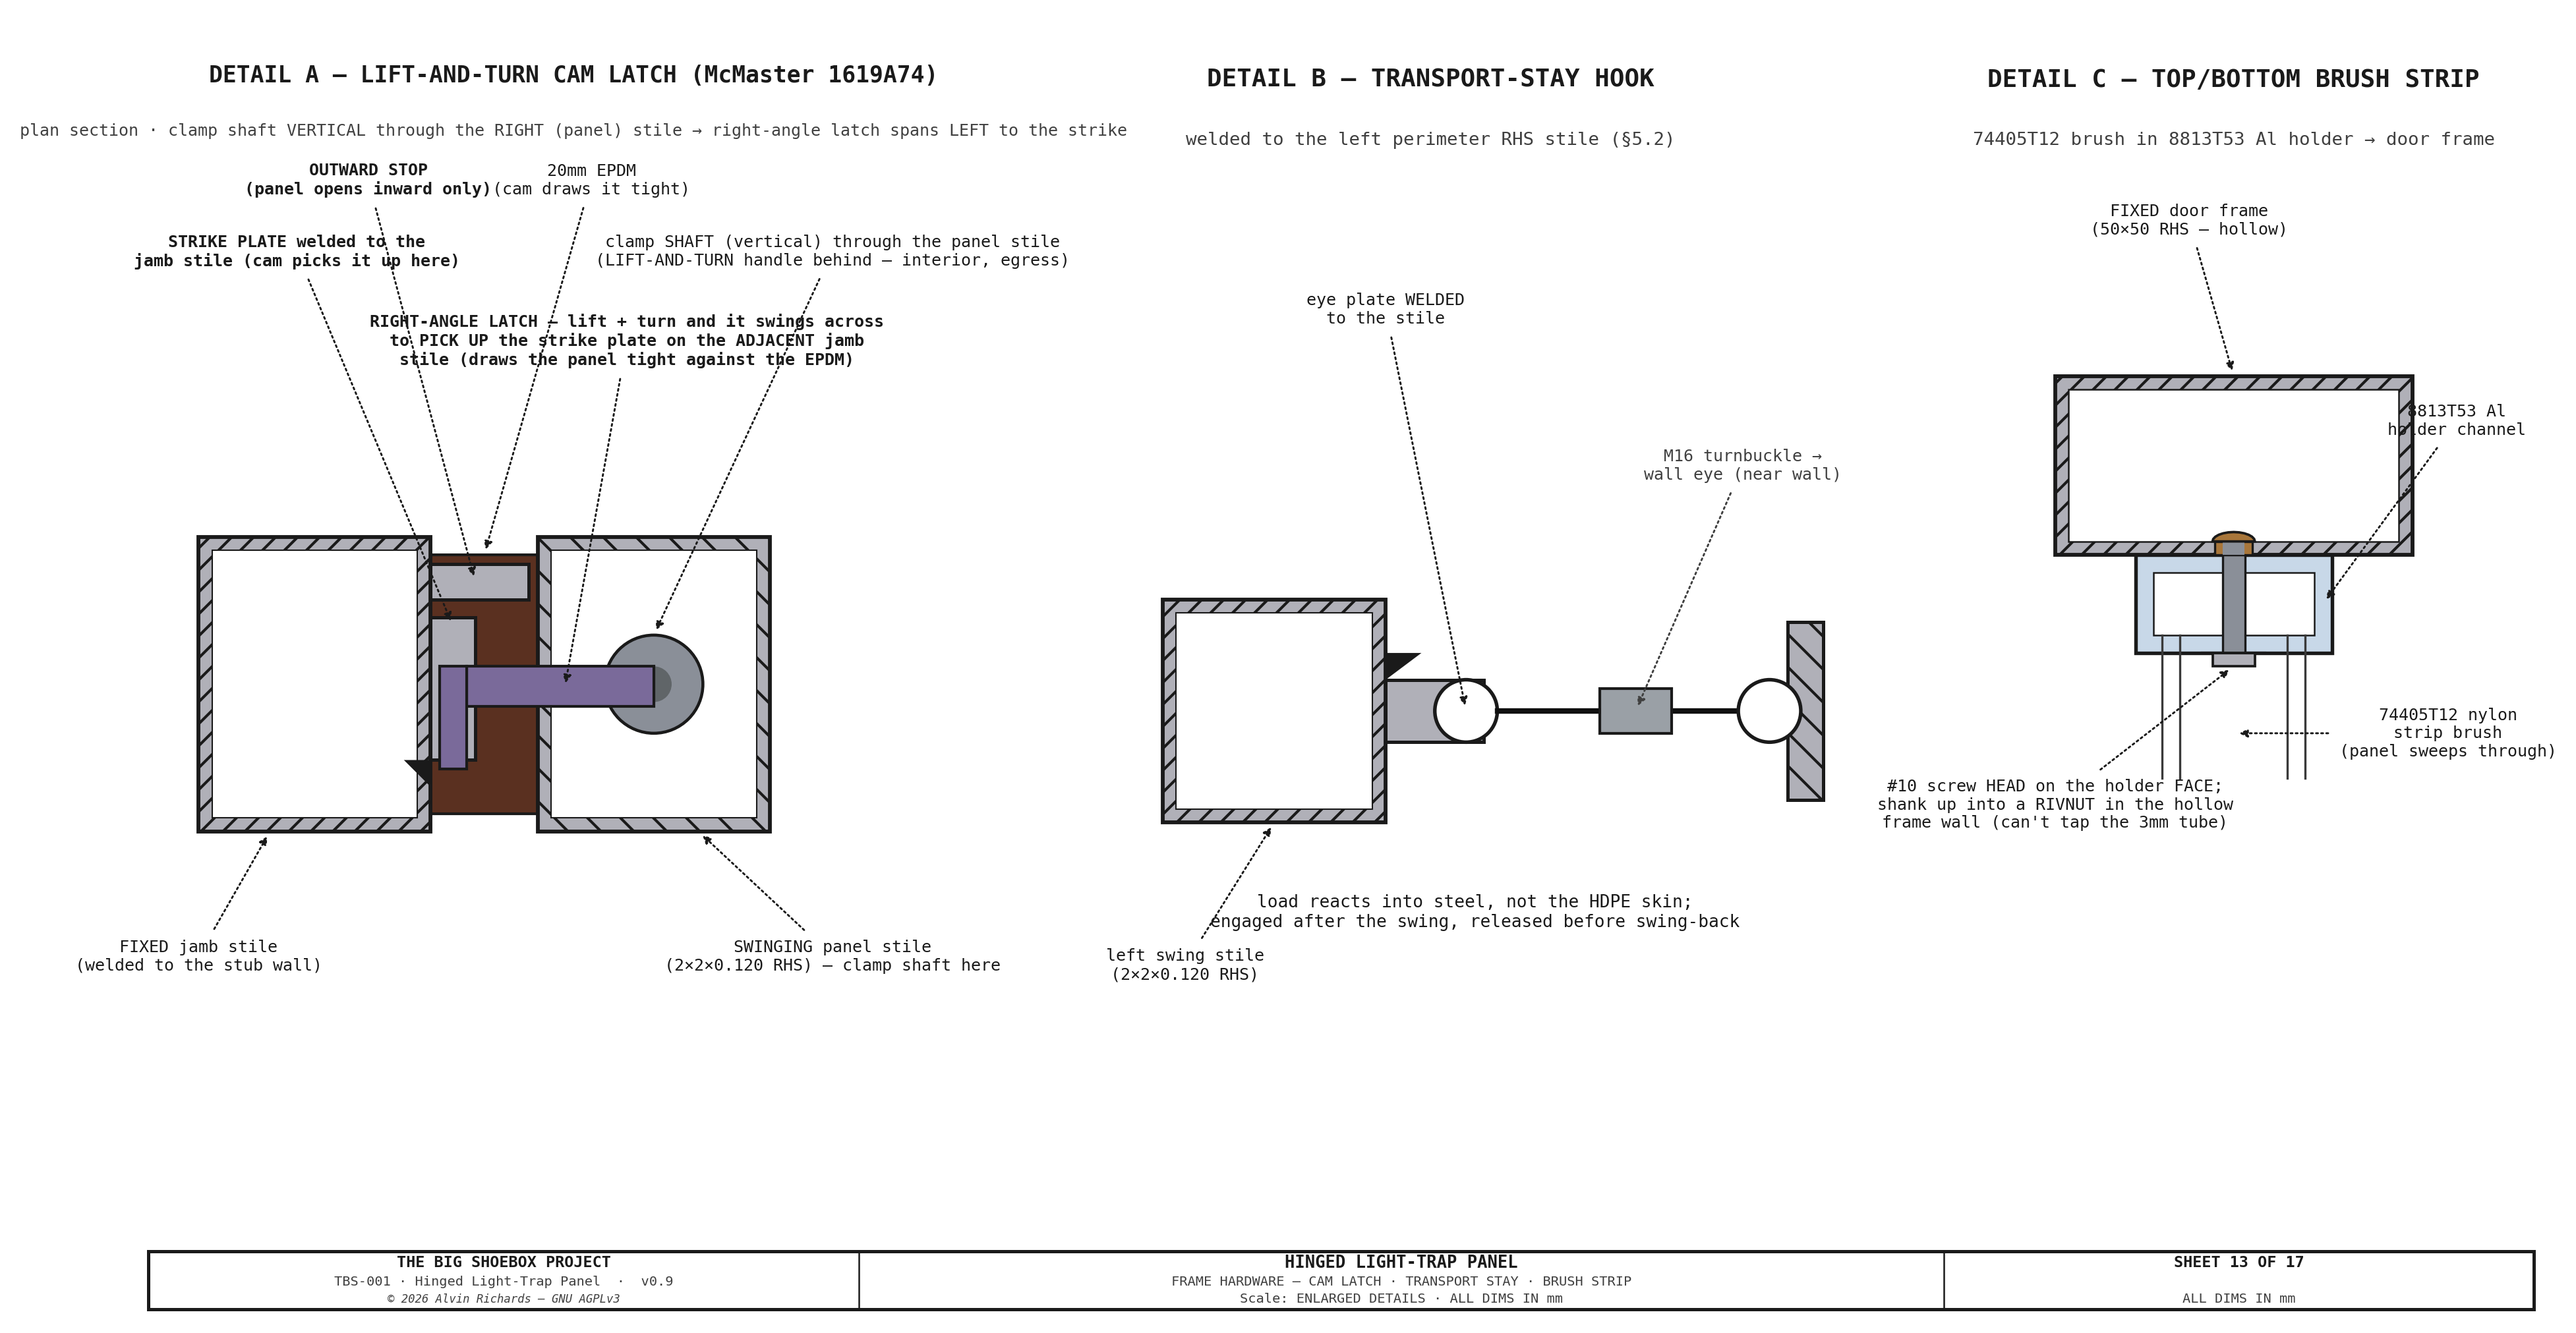
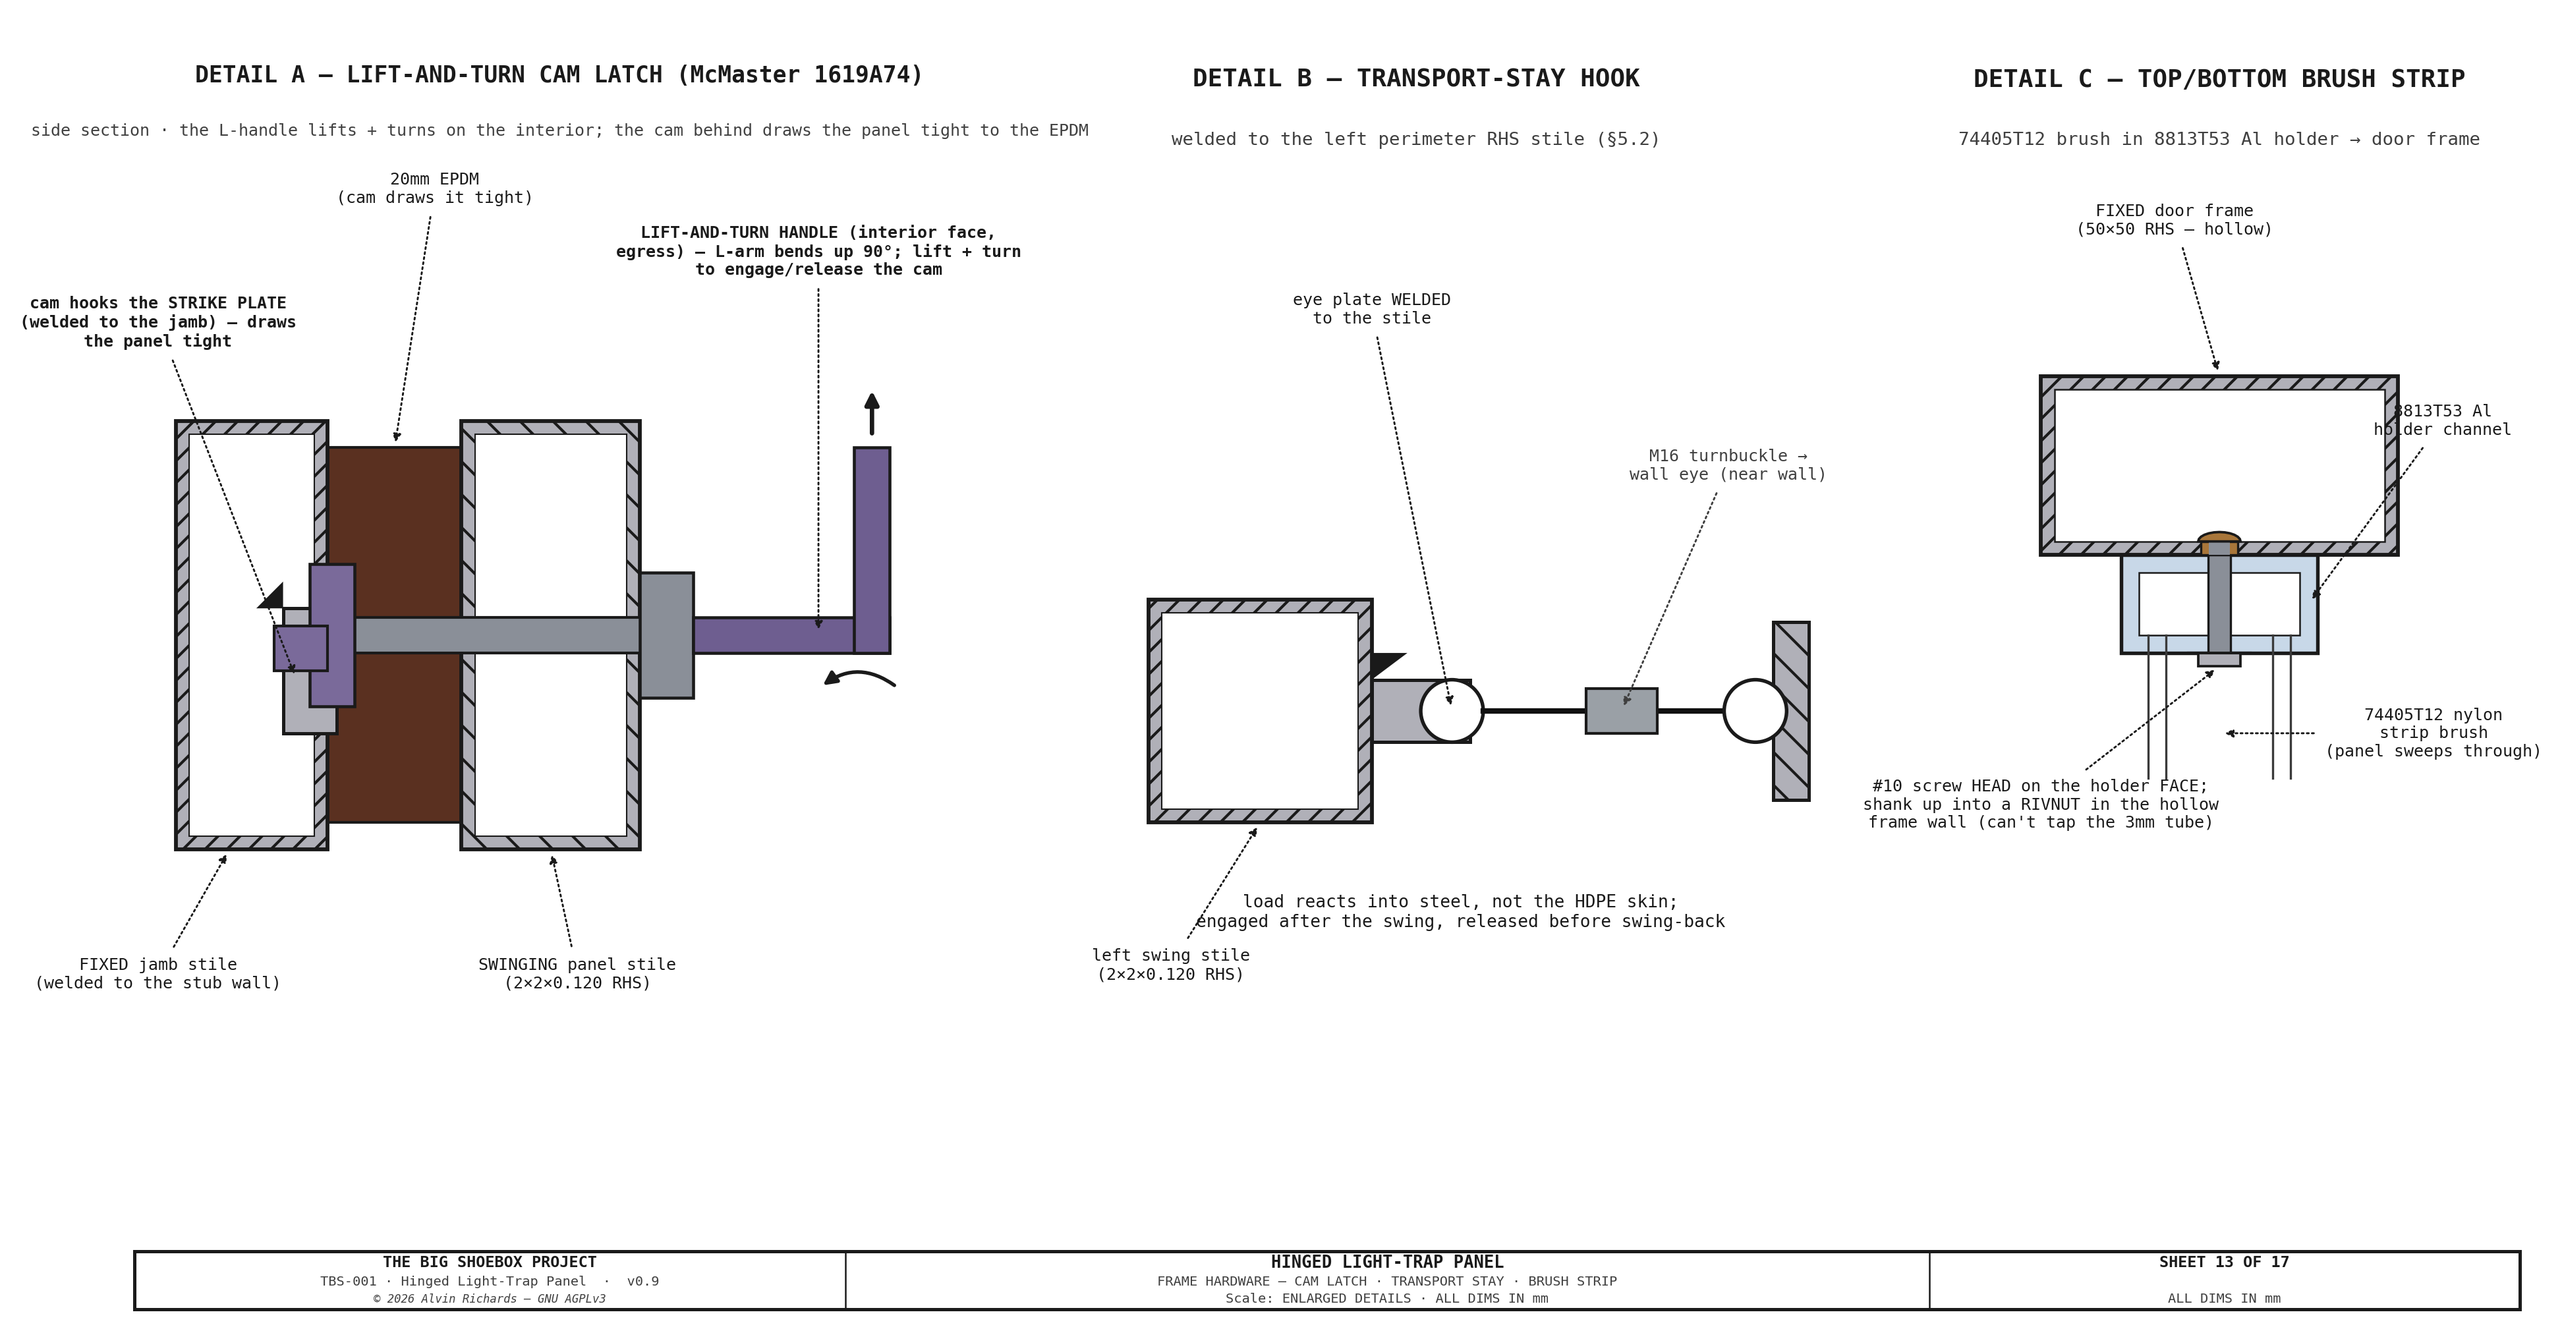
Sheet 13 Detail A: redraw as side section showing the L-shaped lift-and-turn handle (per sketch)

diff --git a/src/generators/generate_hingepanel_diagram.py b/src/generators/generate_hingepanel_diagram.py
@@ -2541,39 +2541,40 @@ def sheet13():
     ax.set_xlim(0, 540)
     ax.set_ylim(-70, 220)
 
-    # ═══ DETAIL A — 1619A74 lift-and-turn cam latch (PLAN section at the latch) ══════
-    #   Two stiles SIDE BY SIDE. The clamp SHAFT is VERTICAL through the RIGHT (swinging panel) stile — so in
-    #   this plan section it is cut END-ON = a circle; its RIGHT-ANGLE latch arm spans LEFT across the gap and
-    #   PICKS UP the strike plate welded to the ADJACENT (fixed jamb) stile.
+    # ═══ DETAIL A — 1619A74 lift-and-turn cam latch (SIDE SECTION through the latch axis) ══════
+    #   The shaft runs HORIZONTALLY through the panel stile, so the L-shaped LIFT-AND-TURN handle shows in
+    #   profile on the interior face; the cam behind hooks the strike welded to the adjacent (fixed) jamb.
+    #   EXTERIOR at LEFT (cam + jamb) → INTERIOR at RIGHT (handle).
     Ax = 6
     ax.text(Ax + 92, 206, "DETAIL A — LIFT-AND-TURN CAM LATCH (McMaster 1619A74)", ha="center", fontsize=8.3, fontweight="bold", color=C_OUT, **FONT)
-    ax.text(Ax + 92, 194, "plan section · clamp shaft VERTICAL through the RIGHT (panel) stile → right-angle latch spans LEFT to the strike", ha="center", fontsize=6.0, color=C_DIM, **FONT)
-    # SWINGING panel-frame stile (RIGHT) — the clamp shaft goes vertically through it
-    ax.add_patch(Rectangle((Ax + 84, 38), 52, 66, fc=C_STEEL, ec=C_OUT, lw=1.4, hatch="\\\\", zorder=4))
-    ax.add_patch(Rectangle((Ax + 87, 41), 46, 60, fc=BG, ec=C_OUT, lw=0.5, zorder=4))
-    leader(ax, (Ax + 120, 38), (Ax + 150, 10), "SWINGING panel stile\n(2×2×0.120 RHS) — clamp shaft here", col=C_OUT, fs=6)
-    # FIXED jamb stile (LEFT) — SIDE BY SIDE; carries the strike plate + the outward stop
-    ax.add_patch(Rectangle((Ax + 8, 38), 52, 66, fc=C_STEEL, ec=C_OUT, lw=1.4, hatch="///", zorder=4))
-    ax.add_patch(Rectangle((Ax + 11, 41), 46, 60, fc=BG, ec=C_OUT, lw=0.5, zorder=4))
-    leader(ax, (Ax + 24, 38), (Ax + 8, 10), "FIXED jamb stile\n(welded to the stub wall)", col=C_OUT, fs=6)
-    # 20mm EPDM in the thin gap between the two stiles (the cam draws it tight)
-    ax.add_patch(Rectangle((Ax + 60, 42), 24, 58, fc=C_GASKT, ec=C_OUT, lw=1.0, zorder=3))
-    leader(ax, (Ax + 72, 100), (Ax + 96, 184), "20mm EPDM\n(cam draws it tight)", col=C_OUT, fs=6)
-    # STRIKE PLATE welded to the jamb (LEFT) stile, protruding into the gap toward the panel
-    ax.add_patch(Rectangle((Ax + 60, 54), 10, 32, fc=C_STEEL, ec=C_OUT, lw=1.2, zorder=6))            # plate on the jamb face
-    ax.add_patch(Polygon([(Ax + 60, 54), (Ax + 54, 54), (Ax + 60, 48)], closed=True, fc=C_OUT, ec="none", zorder=7))  # weld to jamb
-    leader(ax, (Ax + 65, 84), (Ax + 30, 168), "STRIKE PLATE welded to the\njamb stile (cam picks it up here)", col=C_OUT, fw="bold", fs=6)
-    # clamp SHAFT: vertical spindle through the panel stile → shown END-ON as a hub (lift-and-turn handle behind)
-    ax.add_patch(Circle((Ax + 110, 71), 11, fc="#8A8F98", ec=C_OUT, lw=1.1, zorder=7))
-    ax.add_patch(Circle((Ax + 110, 71), 4, fc="#606568", ec="none", zorder=8))
-    leader(ax, (Ax + 110, 82), (Ax + 150, 168), "clamp SHAFT (vertical) through the panel stile\n(LIFT-AND-TURN handle behind — interior, egress)", col=C_OUT, fs=6)
-    # RIGHT-ANGLE latch arm on the shaft — turned, it reaches LEFT and hooks BEHIND the strike on the jamb
-    ax.add_patch(Rectangle((Ax + 68, 66), 42, 9, fc="#7A6A9A", ec=C_OUT, lw=1.0, zorder=9))            # latch arm → the strike plate
-    ax.add_patch(Rectangle((Ax + 62, 52), 6, 23, fc="#7A6A9A", ec=C_OUT, lw=1.0, zorder=9))            # hook wrapping the strike-plate edge
-    leader(ax, (Ax + 90, 70), (Ax + 104, 148), "RIGHT-ANGLE LATCH — lift + turn and it swings across\nto PICK UP the strike plate on the ADJACENT jamb\nstile (draws the panel tight against the EPDM)", col=C_OUT, fw="bold", fs=6)
-    # outward stop on the jamb — the panel opens INWARD only
-    ax.add_patch(Rectangle((Ax + 60, 90), 22, 8, fc=C_STEEL, ec=C_OUT, lw=1.2, zorder=5))
-    leader(ax, (Ax + 70, 94), (Ax + 46, 184), "OUTWARD STOP\n(panel opens inward only)", col=C_OUT, fw="bold", fs=6)
+    ax.text(Ax + 92, 194, "side section · the L-handle lifts + turns on the interior; the cam behind draws the panel tight to the EPDM", ha="center", fontsize=6.0, color=C_DIM, **FONT)
+    # SWINGING panel-frame stile (RHS) — the latch shaft runs horizontally through it
+    ax.add_patch(Rectangle((Ax + 70, 34), 40, 96, fc=C_STEEL, ec=C_OUT, lw=1.4, hatch="\\\\", zorder=4))
+    ax.add_patch(Rectangle((Ax + 73, 37), 34, 90, fc=BG, ec=C_OUT, lw=0.5, zorder=4))
+    leader(ax, (Ax + 90, 34), (Ax + 96, 6), "SWINGING panel stile\n(2×2×0.120 RHS)", col=C_OUT, fs=6)
+    # FIXED jamb stile (LEFT / exterior) — carries the strike the cam picks up
+    ax.add_patch(Rectangle((Ax + 6, 34), 34, 96, fc=C_STEEL, ec=C_OUT, lw=1.4, hatch="///", zorder=4))
+    ax.add_patch(Rectangle((Ax + 9, 37), 28, 90, fc=BG, ec=C_OUT, lw=0.5, zorder=4))
+    leader(ax, (Ax + 18, 34), (Ax + 2, 6), "FIXED jamb stile\n(welded to the stub wall)", col=C_OUT, fs=6)
+    # 20mm EPDM seal in the gap between the stiles (the cam draws it tight)
+    ax.add_patch(Rectangle((Ax + 40, 40), 30, 84, fc=C_GASKT, ec=C_OUT, lw=1.0, zorder=3))
+    leader(ax, (Ax + 55, 124), (Ax + 64, 182), "20mm EPDM\n(cam draws it tight)", col=C_OUT, fs=6)
+    # clamp SHAFT — horizontal, through the panel stile at mid-height
+    ax.add_patch(Rectangle((Ax + 40, 78), 78, 8, fc="#8A8F98", ec=C_OUT, lw=1.0, zorder=7))
+    # cam BEHIND (exterior end of the shaft) — hooks the strike welded to the jamb
+    ax.add_patch(Rectangle((Ax + 36, 66), 10, 32, fc="#7A6A9A", ec=C_OUT, lw=1.1, zorder=8))           # cam body
+    ax.add_patch(Rectangle((Ax + 28, 74), 12, 10, fc="#7A6A9A", ec=C_OUT, lw=1.0, zorder=8))           # cam hook over the strike
+    ax.add_patch(Rectangle((Ax + 30, 60), 12, 28, fc=C_STEEL, ec=C_OUT, lw=1.2, zorder=6))             # STRIKE plate on the jamb
+    ax.add_patch(Polygon([(Ax + 30, 88), (Ax + 24, 88), (Ax + 30, 94)], closed=True, fc=C_OUT, ec="none", zorder=7))  # weld to jamb
+    leader(ax, (Ax + 33, 72), (Ax + 2, 152), "cam hooks the STRIKE PLATE\n(welded to the jamb) — draws\nthe panel tight", col=C_OUT, fw="bold", fs=6)
+    # escutcheon / body on the INTERIOR face of the panel stile
+    ax.add_patch(Rectangle((Ax + 110, 68), 12, 28, fc="#8A8F98", ec=C_OUT, lw=1.1, zorder=7))
+    # L-SHAPED lift-and-turn HANDLE on the interior — horizontal arm bending UP 90°
+    ax.add_patch(Rectangle((Ax + 122, 78), 44, 8, fc="#6E5E90", ec=C_OUT, lw=1.1, zorder=9))           # handle arm (out)
+    ax.add_patch(Rectangle((Ax + 158, 78), 8, 46, fc="#6E5E90", ec=C_OUT, lw=1.1, zorder=9))           # handle grip (bent UP 90°)
+    ax.annotate("", xy=(Ax + 162, 138), xytext=(Ax + 162, 126), arrowprops=dict(arrowstyle="-|>", color=C_OUT, lw=1.6), zorder=10)  # LIFT
+    ax.annotate("", xy=(Ax + 150, 70), xytext=(Ax + 168, 70), arrowprops=dict(arrowstyle="-|>", color=C_OUT, lw=1.3, connectionstyle="arc3,rad=0.4"), zorder=10)  # TURN
+    leader(ax, (Ax + 150, 82), (Ax + 150, 168), "LIFT-AND-TURN HANDLE (interior face,\negress) — L-arm bends up 90°; lift + turn\nto engage/release the cam", col=C_OUT, fw="bold", fs=6)
 
     # ═══ DETAIL B — transport-stay hook (welded to the stile) ════════════════
     Bx = 210

diff --git a/RELEASE.md b/RELEASE.md
@@ -24,6 +24,11 @@ file** — a release must not ship without a changelog entry:
 
 ## [Unreleased]
 
+- **Hinged panel Sheet 13 Detail A — redrawn as a side section (per Alvin sketch).** Was a plan section with
+  the clamp shaft end-on and the handle hidden "behind"; now a side section through the latch axis so the
+  L-shaped **lift-and-turn handle** shows in profile (arm bending up 90°, with lift + turn arrows), the shaft
+  runs horizontally through the panel stile, and the cam behind hooks the strike welded to the fixed jamb.
+
 - **Hinged panel Sheet 14 — removed Detail A (Fan-B → plywood).** That fan-flange → tee-nut mount is now
   fully captured on the new **Ventilation Sheet 3** (Fan-B mount), so Sheet 14 is now just the **plywood →
   frame** attachment (welded tab + captive tee-nut). Updated the cross-references accordingly (Sheet 12
